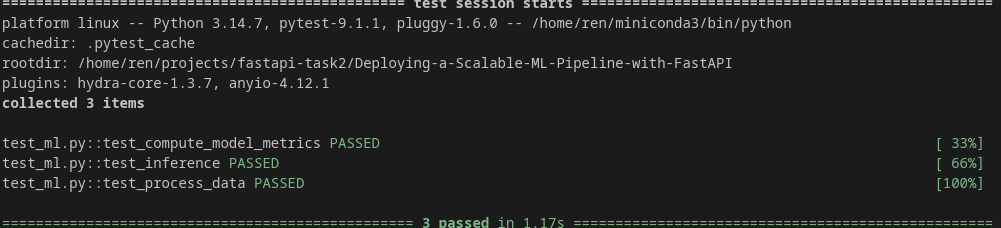
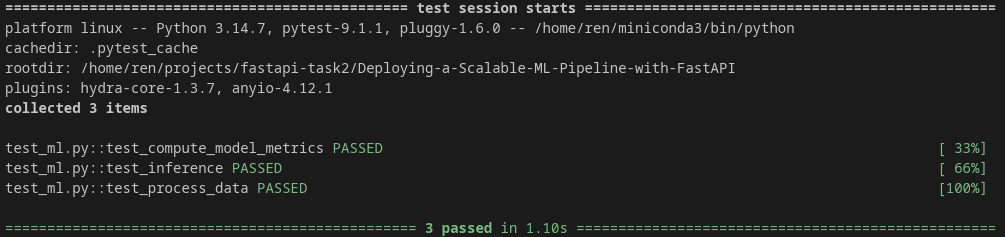
Updated functions to use pytest.approx, added asymmetrical test case, updated unit_test.png

diff --git a/test_ml.py b/test_ml.py
@@ -1,3 +1,4 @@
+import pytest
 import pandas as pd
 import numpy as np
 from sklearn.ensemble import RandomForestClassifier
@@ -7,15 +8,25 @@ from ml.data import process_data
 
 def test_compute_model_metrics():
     """
-    This test verifies evaluation metrics.  it checks if precision, recall, and F-beta fall
-    within the standard valid range of 0-1.
+    This test verifies evaluation metrics.  It checks if compute_mopdel_metrics returns the correct precision,
+    recall, and F1-beta for known label/ prediction pairs
     """
+    # Symmetric case
     y = np.array([1, 1, 0, 0])
     preds = np.array([1, 0, 0, 1])
     precision, recall, fbeta = compute_model_metrics(y, preds)
-    assert 0 <= precision <= 1
-    assert 0 <= recall <= 1
-    assert 0 <= fbeta <= 1
+    assert precision == pytest.approx(0.5)
+    assert  recall == pytest.approx(0.5)
+    assert fbeta == pytest.approx(0.5)
+
+    # Asymmetric case
+    # TP=2, FP=1, FN=0 -- precision=2/3, recall=1.0, F1=0.8
+    y2 = np.array([1, 1, 0, 0])
+    preds2 = np.array([1, 1, 1, 0])
+    precision2, recall2, fbeta2 = compute_model_metrics(y2, preds2)
+    assert precision2 == pytest.approx(2/3)
+    assert recall2 == pytest.approx(1.0)
+    assert fbeta2 == pytest.approx(0.8)
 
 
 def test_inference():
